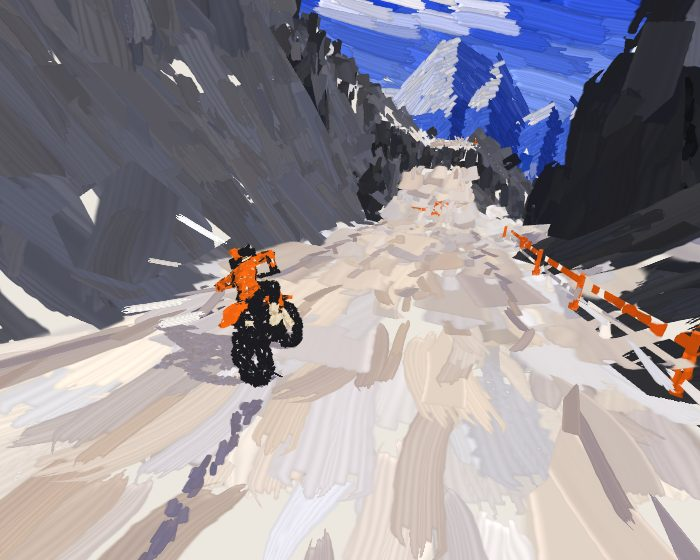
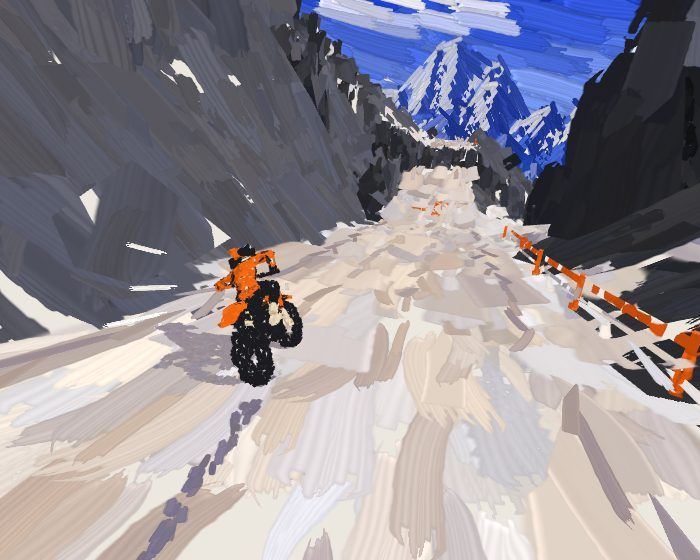
lab/switchback: spurs under the summits, nearer forested hill arcs
Claude-Session: https://claude.ai/code/session_01XxjdrEubiC3ZZ3ppUeUc93

diff --git a/cells/lab/client/switchback/paint.ts b/cells/lab/client/switchback/paint.ts
@@ -301,6 +301,41 @@ function layerStrokes(g: Layer, seed: number, out: number[]) {
   const N = Math.ceil((span * g.R) / (W0 * 0.5)), pts: number[][] = [];
   for (let i = 0; i <= N; i++) { const a = g.from + (span * i) / N; pts.push([a * g.R, g.crest(a)]); }
   const keep = [...dp(pts, W0 * 0.9)].sort((p, q) => p - q);
+  // (the spurs: from each summit a main spur runs down toward you to the foot, wandering a little, and branches leave it
+  // down and outward, so the mountain's planes split at every scale; a shoulder sends a shorter one. Each a line in
+  // metres round and up)
+  const spurs: number[][][] = [];
+  for (let q = 1; q < keep.length - 1; q++) {
+    const [xp, hp] = pts[keep[q - 1]], [xs, hs] = pts[keep[q]], [xn, hn] = pts[keep[q + 1]];
+    const prom = hs - Math.max(hp, hn), top = hs - g.floor;
+    if (top < W0 * 6) continue;
+    const summit = prom > W0 * 4, shoulder = !summit && Math.abs((hn - hs) / (xn - xs + 1e-6) - (hs - hp) / (xs - xp + 1e-6)) > 0.35;
+    if (!summit && !shoulder) continue;
+    const reach = summit ? 1 : 0.45, line: number[][] = [[xs, hs]];
+    let x = xs, y = hs, wob = (R0() - 0.5) * 0.5;
+    const step = W0 * 2.5, end = hs - top * reach;
+    while (y > end) { y -= step; wob += (R0() - 0.5) * 0.35; wob *= 0.85; x += step * wob; line.push([x, y]); }
+    spurs.push(line);
+    // (its branches: two or three, leaving it partway down, alternately each way, down and out)
+    if (summit) for (let b = 0; b < 1 + Math.floor(R0() * 2); b++) {
+      const at = Math.floor(line.length * (0.2 + 0.55 * R0())), [bx0, by0] = line[at], dir = (b % 2 ? 1 : -1) * (0.7 + R0() * 0.6), len = (by0 - g.floor) * (0.35 + R0() * 0.3);
+      const br: number[][] = [[bx0, by0]];
+      for (let yy = by0, xx = bx0, k = 0; yy > by0 - len; k++) { yy -= step; xx += step * dir * (1 - k * 0.04); br.push([xx, yy]); }
+      spurs.push(br);
+    }
+  }
+  // (the nearest spur at a point: its x at that height, and how far off it is round; Infinity where none reaches)
+  const nearSpur = (x: number, y: number) => {
+    let best = Infinity, sx = 0;
+    for (const ln of spurs) {
+      if (y > ln[0][1] || y < ln[ln.length - 1][1]) continue;
+      for (let i = 0; i < ln.length - 1; i++) {
+        const [x0, y0] = ln[i], [x1, y1] = ln[i + 1];
+        if (y <= y0 && y >= y1) { const t = (y0 - y) / Math.max(1e-6, y0 - y1), xx = x0 + (x1 - x0) * t; if (Math.abs(x - xx) < best) { best = Math.abs(x - xx); sx = xx; } break; }
+      }
+    }
+    return [best, sx];
+  };
   const streak = (a: number) => Math.sin(a * 41 + g.k * 3) * 0.55 + Math.sin(a * 97 + g.k) * 0.3 + Math.sin(a * 13 + g.k * 5) * 0.4;
   for (let q = 0; q < keep.length - 1; q++) {
     const [x0, h0] = pts[keep[q]], [x1, h1] = pts[keep[q + 1]], dxm = x1 - x0, dh = h1 - h0, Ls = Math.hypot(dxm, dh);
@@ -323,13 +358,25 @@ function layerStrokes(g: Layer, seed: number, out: number[]) {
         // (its tail kept above the layer's foot, where it would paint over what's in front)
         const Lr = Math.min(L, (2 * (y - g.floor)) / Math.max(0.2, -dy) + W0);
         const ca = Math.cos(a), sa = Math.sin(a), rx = sa, rz = ca, tx = ca, tz = -sa;
-        const T = [tx * dr, dy, tz * dr]; { const l = Math.hypot(T[0], T[1], T[2]); T[0] /= l; T[1] /= l; T[2] /= l; }
-        const nn = [-rx * 0.75 + tx * side * 0.55 * slopeF, 0.5 - df * 0.5, -rz * 0.75 + tz * side * 0.55 * slopeF]; { const l = Math.hypot(nn[0], nn[1], nn[2]); nn[0] /= l; nn[1] /= l; nn[2] /= l; }
+        // (under the crest, the nearest spur decides the plane, where it's nearer than the crest: the side of it the point
+        // is on faces that way, lit on the left, shaded on the right, its strokes running down and away from the spur)
+        let pside = side, pslope = slopeF, pdr = dr, pdy = dy, Lu = Lr, onSpur = false;
+        const [ds, sx] = nearSpur(xm, y), dc = cy - y;
+        if (ds < dc * 0.9 && ds < W0 * 14) {
+          const sd = xm > sx ? 1 : -1, k2 = 0.55 + 0.35 * Math.min(1, ds / (W0 * 8));
+          let qdr = sd * k2, qdy = -1; const l2 = Math.hypot(qdr, qdy); qdr /= l2; qdy /= l2;
+          // (turned down the spur's plane only where its head stays under the crest)
+          const Lq = Math.min(L0 * 1.1, (2 * (y - g.floor)) / Math.max(0.2, -qdy) + W0, Math.max(W0, (2 * (dc - W0 * 0.5)) / Math.max(0.2, -qdy)));
+          if (Lq > W0 * 1.5) { pside = sd; pslope = 1; pdr = qdr; pdy = qdy; Lu = Lq; onSpur = ds < W0 * 2.5; }
+        }
+        const T = [tx * pdr, pdy, tz * pdr]; { const l = Math.hypot(T[0], T[1], T[2]); T[0] /= l; T[1] /= l; T[2] /= l; }
+        const nn = [-rx * 0.75 + tx * pside * 0.55 * pslope, 0.5 - df * 0.5, -rz * 0.75 + tz * pside * 0.55 * pslope]; { const l = Math.hypot(nn[0], nn[1], nn[2]); nn[0] /= l; nn[1] /= l; nn[2] /= l; }
         // (snow: above the snow line, in streaks along the ridge and down the gullies)
         const s = streak(a), snowAt = g.snowline + 110 * s - (cy - g.snowline) * 0.35 * (0.5 + 0.5 * s);
-        const snowy = y > snowAt && (depth < tall * 0.55 || s < -0.35);
+        // (and down the spurs' crests, a way below the line)
+        const snowy = (y > snowAt && (depth < tall * 0.55 || s < -0.35)) || (onSpur && y > g.snowline - 160 - 60 * s);
         const p = at(a, y);
-        plan(list, p[0], p[1], p[2], snowy ? g.snow : g.body, g.haze, T, Lr * (0.75 + R0() * 0.5), nn, W0 * (0.85 + R0() * 0.4), R0(), [0, 7, 0, 1][Math.floor(R0() * 4)], (R0() - 0.5) * 0.1, 4);
+        plan(list, p[0], p[1], p[2], snowy ? g.snow : g.body, g.haze, T, Lu * (0.75 + R0() * 0.5), nn, W0 * (0.85 + R0() * 0.4), R0(), [0, 7, 0, 1][Math.floor(R0() * 4)], (R0() - 0.5) * 0.1, 4);
       }
     }
   }

diff --git a/cells/lab/client/switchback/mesh.ts b/cells/lab/client/switchback/mesh.ts
@@ -413,17 +413,26 @@ function skyline(m: Mesh, seed: number, k: number, spec: { R: number; floor: num
 const RANGES = [
   { k: 1, R: 3700, floor: -290, lo: 520, hi: 1180, peaks: 22, body: M.FAR, snow: M.FARSNOW, snowline: -260 + 470, fold: 0.03, haze: 0.16, forest: false },
   { k: 2, R: 3100, floor: -280, lo: 300, hi: 760, peaks: 16, body: M.MTN, snow: M.MTNSNOW, snowline: -260 + 520, fold: 0.04, haze: 0.09, forest: false },
-  { k: 3, R: 2550, floor: -270, lo: 110, hi: 360, peaks: 10, body: M.RIDGE, snow: M.RIDGE, snowline: 1e9, fold: 0.05, haze: 0.04, forest: false },
+  { k: 3, R: 2550, floor: -270, lo: 200, hi: 540, peaks: 11, body: M.RIDGE, snow: M.RIDGE, snowline: 1e9, fold: 0.05, haze: 0.05, forest: false },
 ];
+/** the ranges and, nearer, two arcs of forested hills in the middle distance (where they stand, by the seed), farthest
+ * first; full rings for the ranges, arcs for the hills, so the valley opens between them */
+function rangeSpecs(seed: number) {
+  const arcs = [0, 1].map((j) => {
+    const mid = hash(seed, j, 70) * Math.PI * 2 + j * Math.PI * 0.9, span = 1.4 + 0.8 * hash(seed, j, 71);
+    return { k: 4 + j, R: 1850 + 250 * hash(seed, j, 72), floor: -265, lo: 160, hi: 430 + 120 * hash(seed, j, 73), peaks: 5, body: M.RIDGE, snow: M.RIDGE, snowline: 1e9, fold: 0.06, haze: 0.02, forest: true, from: mid - span / 2, to: mid + span / 2 };
+  });
+  return [...RANGES.map((r) => ({ ...r, from: 0, to: Math.PI * 2 })), ...arcs.sort((p, q) => q.R - p.R)];
+}
 export function buildRanges(seed: number) {
   const m = new Mesh();
-  for (const r of RANGES) skyline(m, seed, r.k, r);
+  for (const r of rangeSpecs(seed)) skyline(m, seed, r.k, r.from === 0 && r.to === Math.PI * 2 ? { ...r, from: undefined, to: undefined } : r);
   return new Float32Array(m.v);
 }
 /** the skylines' profiles, farthest first: each its radius, floor, snow line, materials, its crest's height round the eye
  * and its summits (angle, height, half-widths each side) — for painting a range by its ridges rather than its faces */
 export function rangeProfiles(seed: number) {
-  return RANGES.map((r) => { const { crest, peaks } = skyline(new Mesh(), seed, r.k, r); return { ...r, from: 0, to: Math.PI * 2, crest, peaks }; });
+  return rangeSpecs(seed).map((r) => { const { crest, peaks } = skyline(new Mesh(), seed, r.k, r.from === 0 && r.to === Math.PI * 2 ? { ...r, from: undefined, to: undefined } : r); return { ...r, crest, peaks }; });
 }
 /** the foothills in the valley: two arcs, each a long continuous ridge, forested along its foot */
 export function valleyRidges(seed: number) {

diff --git a/cells/lab/static/switchback.md b/cells/lab/static/switchback.md
@@ -119,7 +119,7 @@ An experiment in drawing the mountain as paint, after looking closely at a brush
 - **Nothing pops.** A stroke whose turn to be thinned out with distance comes shrinks away rather than going at once. What's built afresh each frame keeps its strokes: the rider by its faces, the flags and the falls by where they are; the gouges aren't painted (they're cut to the eye, so their faces change as you ride), the road's own strokes running along it instead.
 - **The speed in the marks, near the eye.** Within about 14 m of the eye (gone by 30 m), at pace every stroke turns, on its own face, toward the way the eye is going and draws out by as far as the eye goes in a moment (the eye's smoothed motion in the world: one way for every stroke, so they hold steady), so the ground and the rock just round you fall into line and stream past; further off the subject alone lays each stroke (`stretch=0` none, `stretch=2` twice). Your track and the rider's shadow are laid flat, as the ground is. The shadow lies on the road ahead and behind where it falls, not on a level plane at the rider's feet (which a slope going away left standing in the air).
 - **Strokes the course calls for.** Laid deliberately from the course, not scattered over faces, each lying on the surface (its normal the surface's own there): the road's two edges in long strokes following it, the drop's lip as a lit edge of snow, and the **ruts**, the worn lines down the road as `ruts.ts` has them, a step darker than the road (the gouges, cut to the eye each frame, can't be painted; these are the same lines, fixed to the course). No wall-foot shade: those strokes spiked out of the slope rather than lying on it. The rider's shadow is painted, flat on the road where it falls.
-- **The far off.** In layers that recede, each further one hazed toward the sky's pale horizon: a snow massif (its crest broken by sub-summits and notches all along, not a row of cones), a nearer snowy range, a range of blue hills, then the valley's floor and its forested foothills. Each layer is painted by its form, not its faces: its crest simplified to the segments that matter (a summit, a shoulder, a long saddle), each segment painted in rows under it, every stroke sized by its segment, so a long flat saddle is a few long level strokes, not hundreds of identical ones (they made a ruled band of hatching), and a steep flank many shorter ones along the ridge, turning down the fall lower down; the strokes along the crest cut the skyline clean. Snow in streaks along the ridges and down the gullies above the snow line, warm where it's lit. Lit as a painter lights the far off, not by the sun: from the left of the way you look, so a peak always shows a lit flank and one in shade (by the sun, half the peaks were backlit). Painted in order, not by depth: the sky everywhere, the layers farthest first over it, so their strokes run over the skyline as a brush does; the valley's floor by depth (fields in patches of ochre, lavender and blues, laid level round the eye, broader further off; the river a thin pale line along it); the foothills over that, a dark forest band along each one's foot, its top ragged with treetops. The sky deepens from a pale horizon to the top in long calm strokes on one slant, with a few clouds, each a cluster of pale strokes lit above and shaded under. `bg=yaw,pitch,fov` shows the backdrop alone.
+- **The far off.** In layers that recede, each further one hazed toward the sky's pale horizon: a snow massif (its crest broken by sub-summits and notches all along, not a row of cones), a nearer snowy range, a range of blue hills, two arcs of forested hills nearer (the valley opening between them), then the valley's floor and its forested foothills. Under each summit a spur runs down toward you, wandering, with a branch or two leaving it down and outward (a shoulder sends a shorter one); under the crest the nearest spur decides a stroke's plane: the side of it the stroke is on faces that way, lit on the left, shaded on the right, the strokes running down and away from it, so the mountain splits into chevrons at more than one scale, and snow runs down the spurs' crests below the snow line. A stroke turns down a spur's plane only where its head stays under the crest. Each layer is painted by its form, not its faces: its crest simplified to the segments that matter (a summit, a shoulder, a long saddle), each segment painted in rows under it, every stroke sized by its segment, so a long flat saddle is a few long level strokes, not hundreds of identical ones (they made a ruled band of hatching), and a steep flank many shorter ones along the ridge, turning down the fall lower down; the strokes along the crest cut the skyline clean. Snow in streaks along the ridges and down the gullies above the snow line, warm where it's lit. Lit as a painter lights the far off, not by the sun: from the left of the way you look, so a peak always shows a lit flank and one in shade (by the sun, half the peaks were backlit). Painted in order, not by depth: the sky everywhere, the layers farthest first over it, so their strokes run over the skyline as a brush does; the valley's floor by depth (fields in patches of ochre, lavender and blues, laid level round the eye, broader further off; the river a thin pale line along it); the foothills over that, a dark forest band along each one's foot, its top ragged with treetops. The sky deepens from a pale horizon to the top in long calm strokes on one slant, with a few clouds, each a cluster of pale strokes lit above and shaded under. `bg=yaw,pitch,fov` shows the backdrop alone.
 - **The speed layer too.** Its shards, the smears off the posts, the air off the rider and the debris are laid with the same stamps, tinted: a wedge becomes a long stroke tapering the same way, a chip a dab.
 
 The marks come from an atlas of sixteen brush stamps made when the page loads: flats, rounds, a dab, dry flats running out, a long flat, flicks (heavy at the start, whipped thin, curving), impasto (a few thick bristles, deep ridges, ragged edges), a scumble (dragged dry over the paper's tooth), a wash (soft-edged, smooth), a fan (bristles splayed), a palette knife (flat, hard-edged, cut on a slant, paint ridged at its sides) and a rake. Each is a brush of bristles that clump (bands of their own widths), every bristle with its own load of paint, touching down and lifting a little apart from the rest, running dry along the stroke, and piling paint where it lifts. Each subject has its own brushes: the road flats and the knife; the snow rounds, dabs, washes, scumbles, fans and flicks; the rock dry flats, impasto, the knife and the rake; the far ranges long flats and washes. And no two strokes are alike: each a little lighter or darker, warmer or cooler. They.re drawn instanced, blended (premultiplied) in a fixed order, far chunks first.
